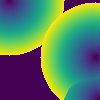
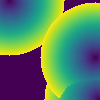
reup examples after correction in propagation rules

Changed region(s): [[0.42, 0.84, 0.75, 1.0]]

diff --git a/examples.py b/examples.py
@@ -29,7 +29,7 @@ plt.imsave("./examples/init_name_array.png", name_arr)
 # create name array, "naming" the kernels with a distinct ID
 cost_arr = np.ones(dimensions, dtype="int")
 cost_arr[25:50,63:79] = 2
-cost_arr[79:85,11:98] = 20
+cost_arr[90:91,11:98] = 20
 plt.imsave("./examples/init_cost_array.png", cost_arr)
 
 
